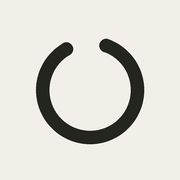
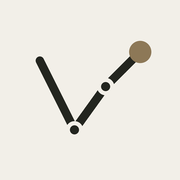
s

Changed region(s): [[0.1944, 0.1944, 0.8611, 0.8056]]

diff --git a/index.html b/index.html
@@ -174,6 +174,11 @@ try { var p = localStorage.getItem("vt:theme") || "auto"; document.documentEleme
         <p class="hint">Win rate with players you have queued with at least twice, in the selected game mode.</p>
       </section>
       <section class="card pad">
+        <h2>Servers</h2>
+        <div id="servers"></div>
+        <p class="hint">The data centre each match ran on, which is what decides your ping. A "highest win rate" needs at least 5 games on a server, so a lucky few games don't win.</p>
+      </section>
+      <section class="card pad">
         <h2>Weapons</h2>
         <div id="weapons"></div>
         <p class="hint">Rounds are how often you bought the weapon. Kills and deaths come from the kill feed. Damage and headshots count rounds where you bought that weapon, so guns you picked up are only partly included.</p>
@@ -285,7 +290,7 @@ try { var p = localStorage.getItem("vt:theme") || "auto"; document.documentEleme
       <ul>
         <li><b>Overview:</b> win rate, record, K/D, ACS, current and peak rank, today's session and your recent form.</li>
         <li><b>Matches:</b> every match you have fetched. Press Details to see all players, damage, first bloods and who dominated who. Select a player there to open their profile or save them as a favorite.</li>
-        <li><b>Stats:</b> win rate and K/D per agent and map, the players you team up with, and your weapons: which you use most, which gets you the most kills per round, and which kills you most. It also shows attack and defence, economy, opening duels and trades, clutches and ability use.</li>
+        <li><b>Stats:</b> win rate and K/D per agent and map, the players you team up with, your servers, and your weapons: which you use most, which gets you the most kills per round, and which kills you most. It also shows attack and defence, economy, opening duels and trades, clutches and ability use.</li>
         <li><b>Progress:</b> trend charts (hover or tap a dot for details), accuracy over time, rank history, a tilt check and a rank goal estimate.</li>
         <li><b>Compare:</b> see how far you are from another player's rank and roughly how many games it takes to catch up.</li>
         <li>The <b>Game mode</b> selector at the top applies to every tab. It starts on Competitive.</li>

diff --git a/insights.js b/insights.js
@@ -373,6 +373,28 @@ function renderWeapons(view) {
   box.append(el("p", "hint", `Multi-kill rounds across ${matches} ${matches === 1 ? "match" : "matches"}: 2K ${multi[0]} · 3K ${multi[1]} · 4K ${multi[2]} · Ace ${multi[3]}`));
 }
 
+/* ---------- Servers ---------- */
+
+function renderServers(view) {
+  const box = $("servers");
+  box.replaceChildren();
+  const played = view.filter((m) => m.server);
+  if (!played.length) { box.append(emptyNote("Server data")); return; }
+  const rows = groupBy("server", played);
+  const decided = rows.filter((r) => r.n >= 5);
+  const best = decided.length > 1 ? decided.reduce((a, b) => (b.winRate > a.winRate ? b : a)) : null;
+  box.append(chipRow([
+    `Most played: ${rows[0].name} (${rows[0].n} ${rows[0].n === 1 ? "game" : "games"})`,
+    best && `Highest win rate: ${best.name} (${pct(best.winRate)} over ${best.n} games)`,
+    !best && "Highest win rate needs at least 5 games on two or more servers",
+  ]));
+  box.append(statTable(["Server", "Games", "Win rate", "K/D", "ACS"], rows.map((r) => ({
+    name: r.name,
+    bar: r.n / played.length,
+    cells: [["Games", r.n], ["Win rate", pct(r.winRate)], ["K/D", r.kd.toFixed(2)], ["ACS", Math.round(r.acs)]],
+  })), colsFor(4)));
+}
+
 /* ---------- Sides, economy and opening duels ---------- */
 
 const newSides = () => ({ A: [0, 0, 0, 0], D: [0, 0, 0, 0] });
@@ -771,6 +793,7 @@ function renderInsights(view) {
   renderCharts(view);
   renderRrChart();
   renderTeammates(view);
+  renderServers(view);
   renderWeapons(view);
   renderSides(view);
   renderEconomy(view);

diff --git a/changelog.js b/changelog.js
@@ -1,5 +1,9 @@
 /* Version history, newest first. Add a new entry at the top for every update. */
 const RELEASES = [
+  { version: "3.0", title: "New logo and server stats", items: [
+    "A new app icon: a V drawn as a progress line, with a dot at each turn.",
+    "Servers: which data centres your matches ran on, how often, and the win rate on each. The highest win rate needs at least 5 games on a server.",
+  ] },
   { version: "2.9", title: "Clutches, ability use, tilt check and accuracy", items: [
     "Clutches: how many 1v1, 1v2 and larger situations you get, and how many you win.",
     "Ability use: casts per round for each agent, and whether you win more rounds when you use more utility.",

diff --git a/script.js b/script.js
@@ -536,6 +536,7 @@ function parseMatch(m) {
   const queue = meta?.queue?.name ?? meta?.queue?.id ?? meta?.mode ?? "Unknown";
   const details = extractDetails(m, played, teamId);
   const weapons = extractWeapons(m, me);
+  const server = String(meta.cluster || "").trim();
   const play = extractRounds(m, me, teamId);
   return {
     id: String(meta.match_id ?? meta.id),
@@ -548,6 +549,7 @@ function parseMatch(m) {
     acs: played > 0 ? Math.round(score / played) : Math.round(score),
     result,
     ...(details ? { details } : {}),
+    ...(server ? { server } : {}),
     ...(weapons ? { weapons } : {}),
     ...(play || {})
   };

diff --git a/sw.js b/sw.js
@@ -1,5 +1,5 @@
 /* Offline support: the app files are cached and refreshed in the background. API calls are never cached. */
-const CACHE = "vt-v19";
+const CACHE = "vt-v20";
 const SHELL = ["./", "index.html", "style.css", "script.js", "insights.js", "changelog.js", "manifest.webmanifest", "icon-192.png", "icon-512.png", "icon-180.png"];
 
 self.addEventListener("install", (e) => {
